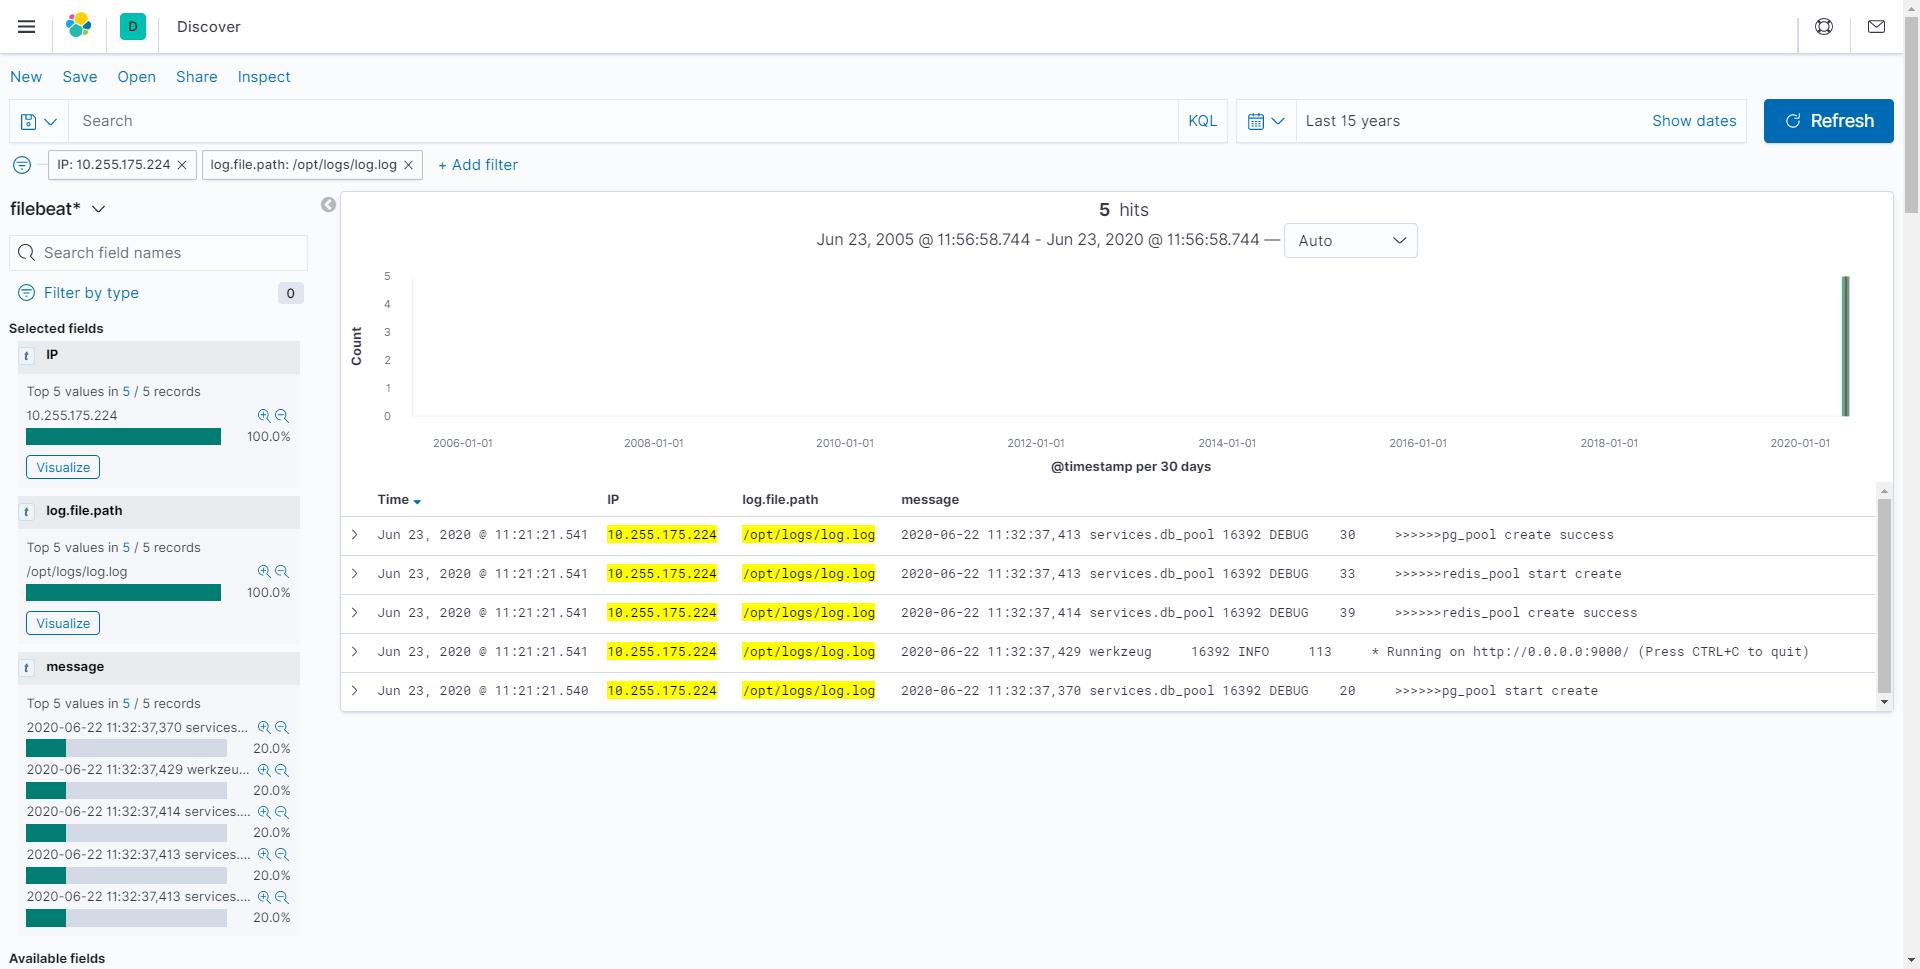
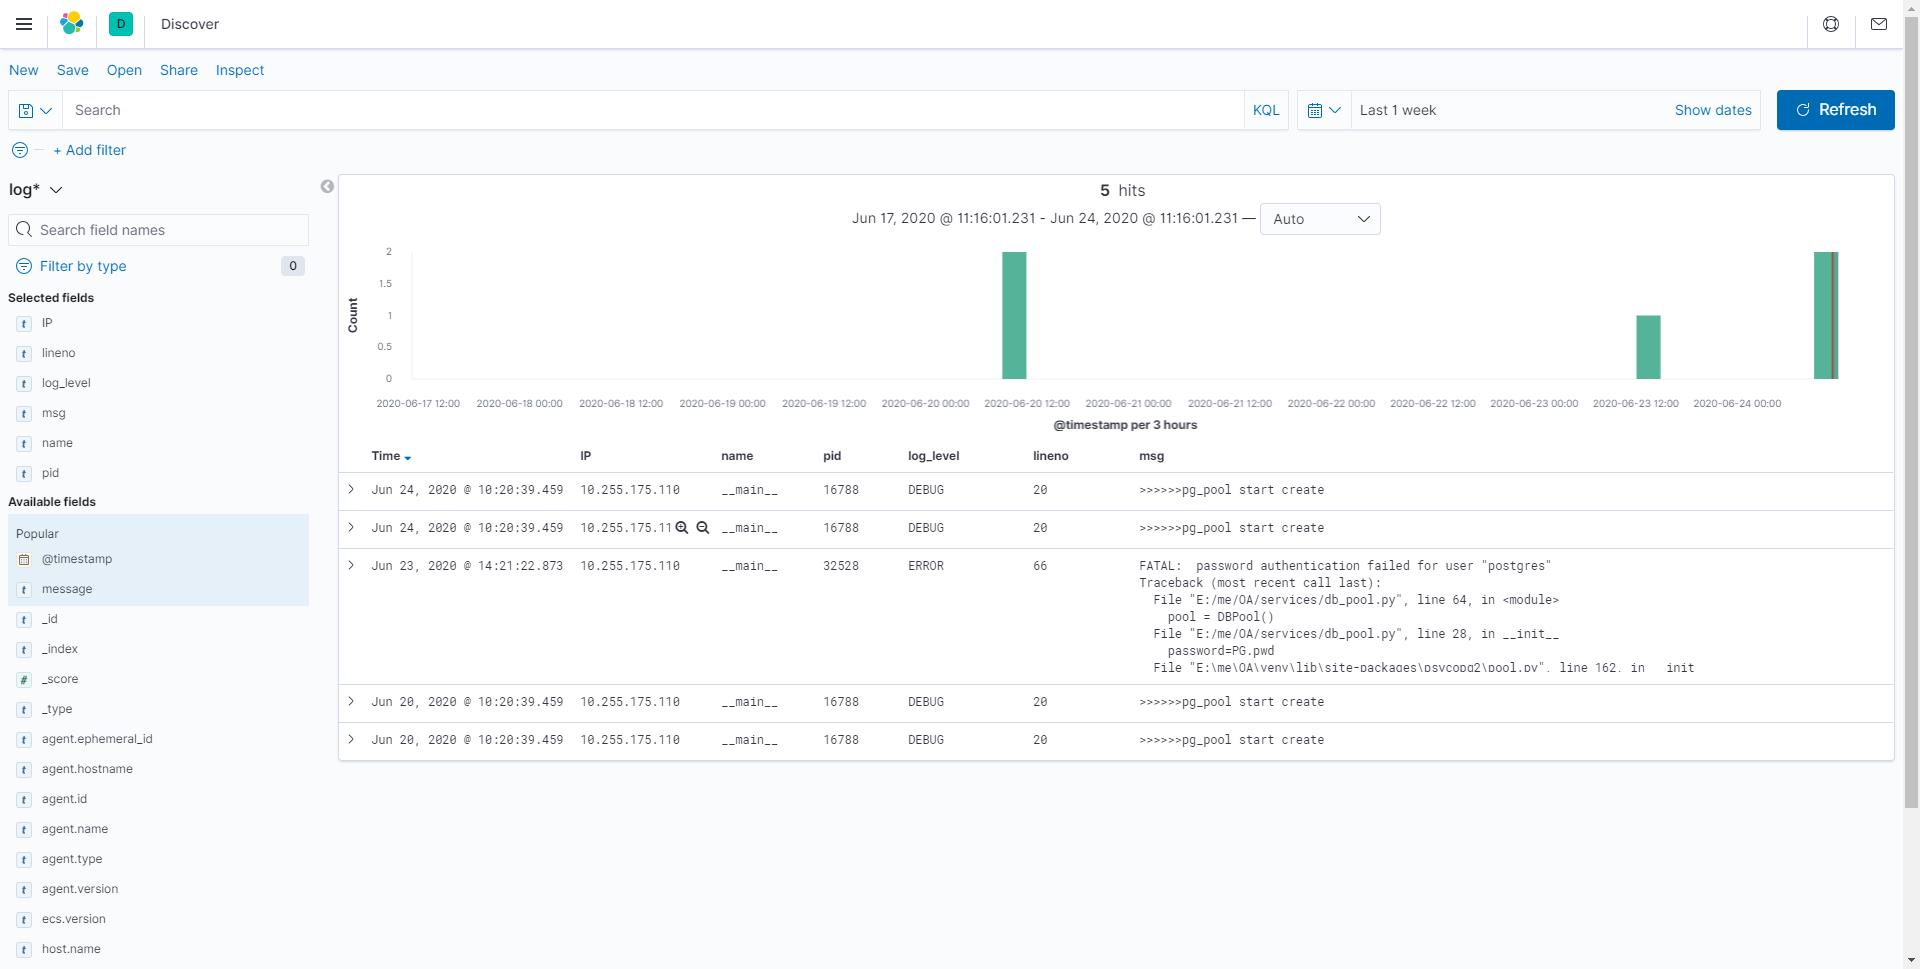
更新

diff --git a/实践文档/Filebeat+Elasticsearch+Kibana日志服务器部署/README.md b/实践文档/Filebeat+Elasticsearch+Kibana日志服务器部署/README.md
@@ -1,12 +1,16 @@
 # Filebeat+Elasticsearch+Kibana日志服务器部署
 
+功能：将多个服务器上的日志文件上传到es服务器，多行日志合并，通过 pipeline 对日志内容进行解析，将日志时间替换为上传时间，每部分内容放在独立的字段中，方便筛选
+
 Filebeat：日志收集器
 
 Elasticsearch：一个开源的分布式、RESTful 风格的搜索和数据分析引擎
 
 Kibana：为 Elasticsearch 设计的开源分析和可视化平台
 
-现阶段缺点：收集的日志输出的名称均为fieebeat+time
+所用镜像版本都为：7.8
+
+为避免版本差异，谨慎修改软件版本
 
 + docker-compose.yml：Elasticsearch和Kibana部署文件
   + filebeat
@@ -15,7 +19,7 @@ Kibana：为 Elasticsearch 设计的开源分析和可视化平台
 
 ## 修改Filebeat配置文件
 
-打开filebeat文件夹下的filebeat.yml，修改其中的日志路径、服务器IP和es服务器IP
+打开filebeat文件夹下的filebeat.yml，修改其中的日志路径、服务器IP、es服务器IP和自定义索引
 
 修改日志路径的同时，记得修改docker-compose.yml中的文件映射
 
@@ -32,10 +36,14 @@ filebeat.inputs:
       pattern: '^\d{4}-\d{2}-\d{2}'
       negate: true
       match: after
+    tags: ["log"]
 
 output.elasticsearch:
   hosts: ["es服务器IP:9200"]
-
+  indices:  # 自定义索引
+    - index: "log-%{[agent.version]}-%{+yyyy.MM.dd}"
+      when.contains:
+        tags: "log"
 ```
 
 ## 部署
